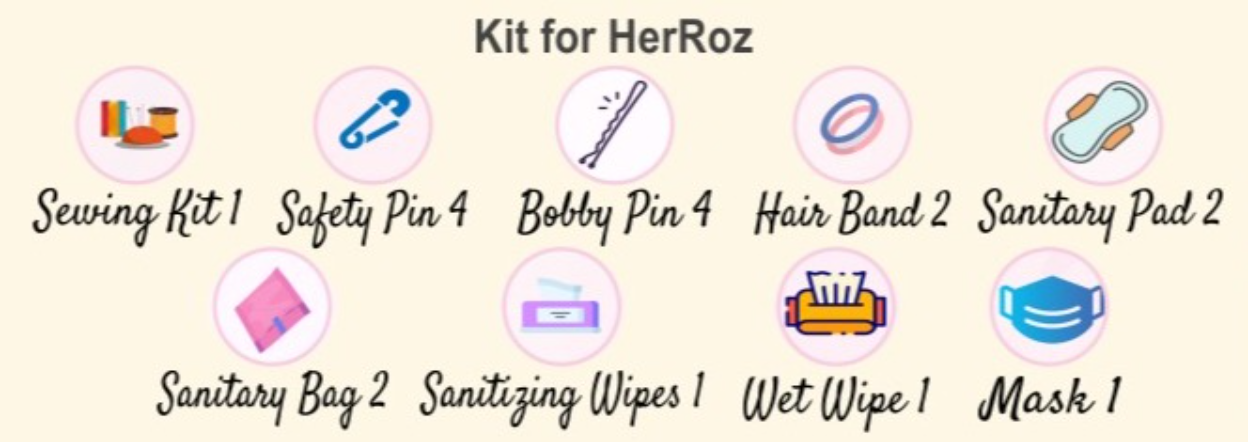
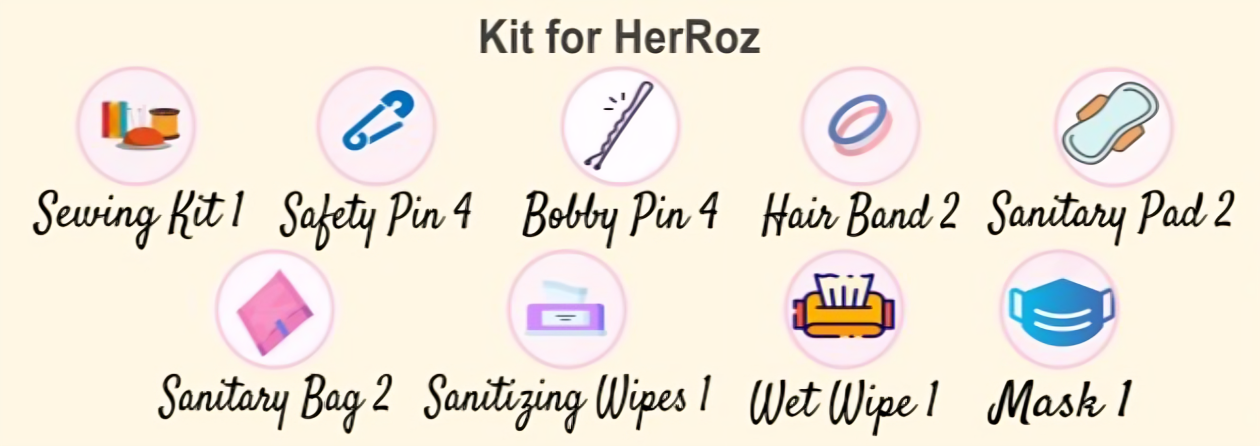
allproductsimg2

diff --git a/src/Components/Product/Product.js b/src/Components/Product/Product.js
@@ -22,7 +22,7 @@ const products = [
     name: "Ladies Special Kit",
     price: 99,
     image: kit2Img,
-     bannerimg: '',
+     bannerimg: allKitImg2,
 
   },
 ];
@@ -116,8 +116,7 @@ const Product = () => {
              src={product.bannerimg}
             alt=""
             className="allProduct_Img "
-            style={{ width: "100%" }}
-          />
+           />
         </div>
         </>
         ))}

diff --git a/src/Components/Product/Product.css b/src/Components/Product/Product.css
@@ -68,7 +68,11 @@ margin-left: auto;
   }
   .allProduct_Img{
     width: 100%;
-  }
+    height: 80%;
+    margin-top: 2%;
+    margin-bottom: 2%;
+    background-color: rgba(255, 192, 241, 0);
+    }
   .fly2_image{
     position: absolute;
     width: 20%;
